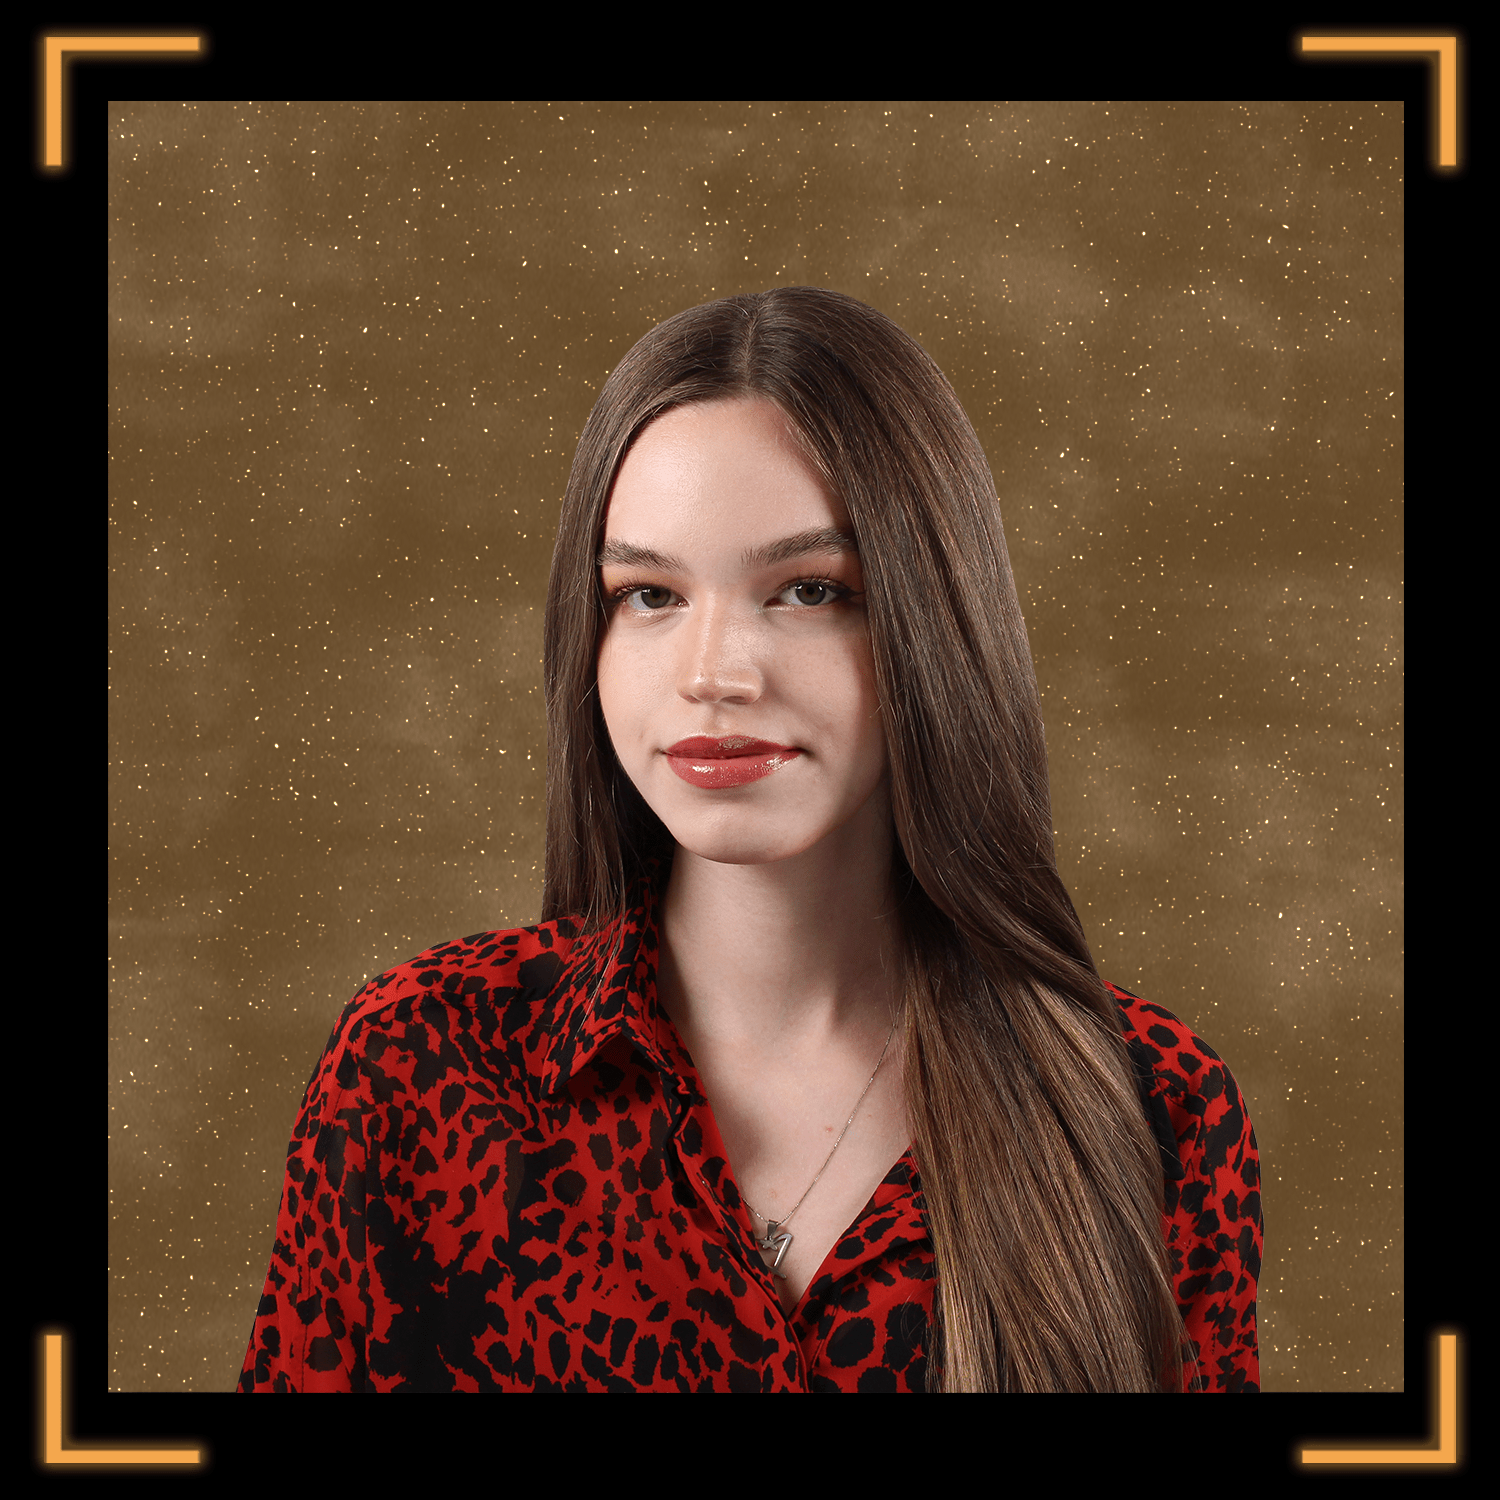
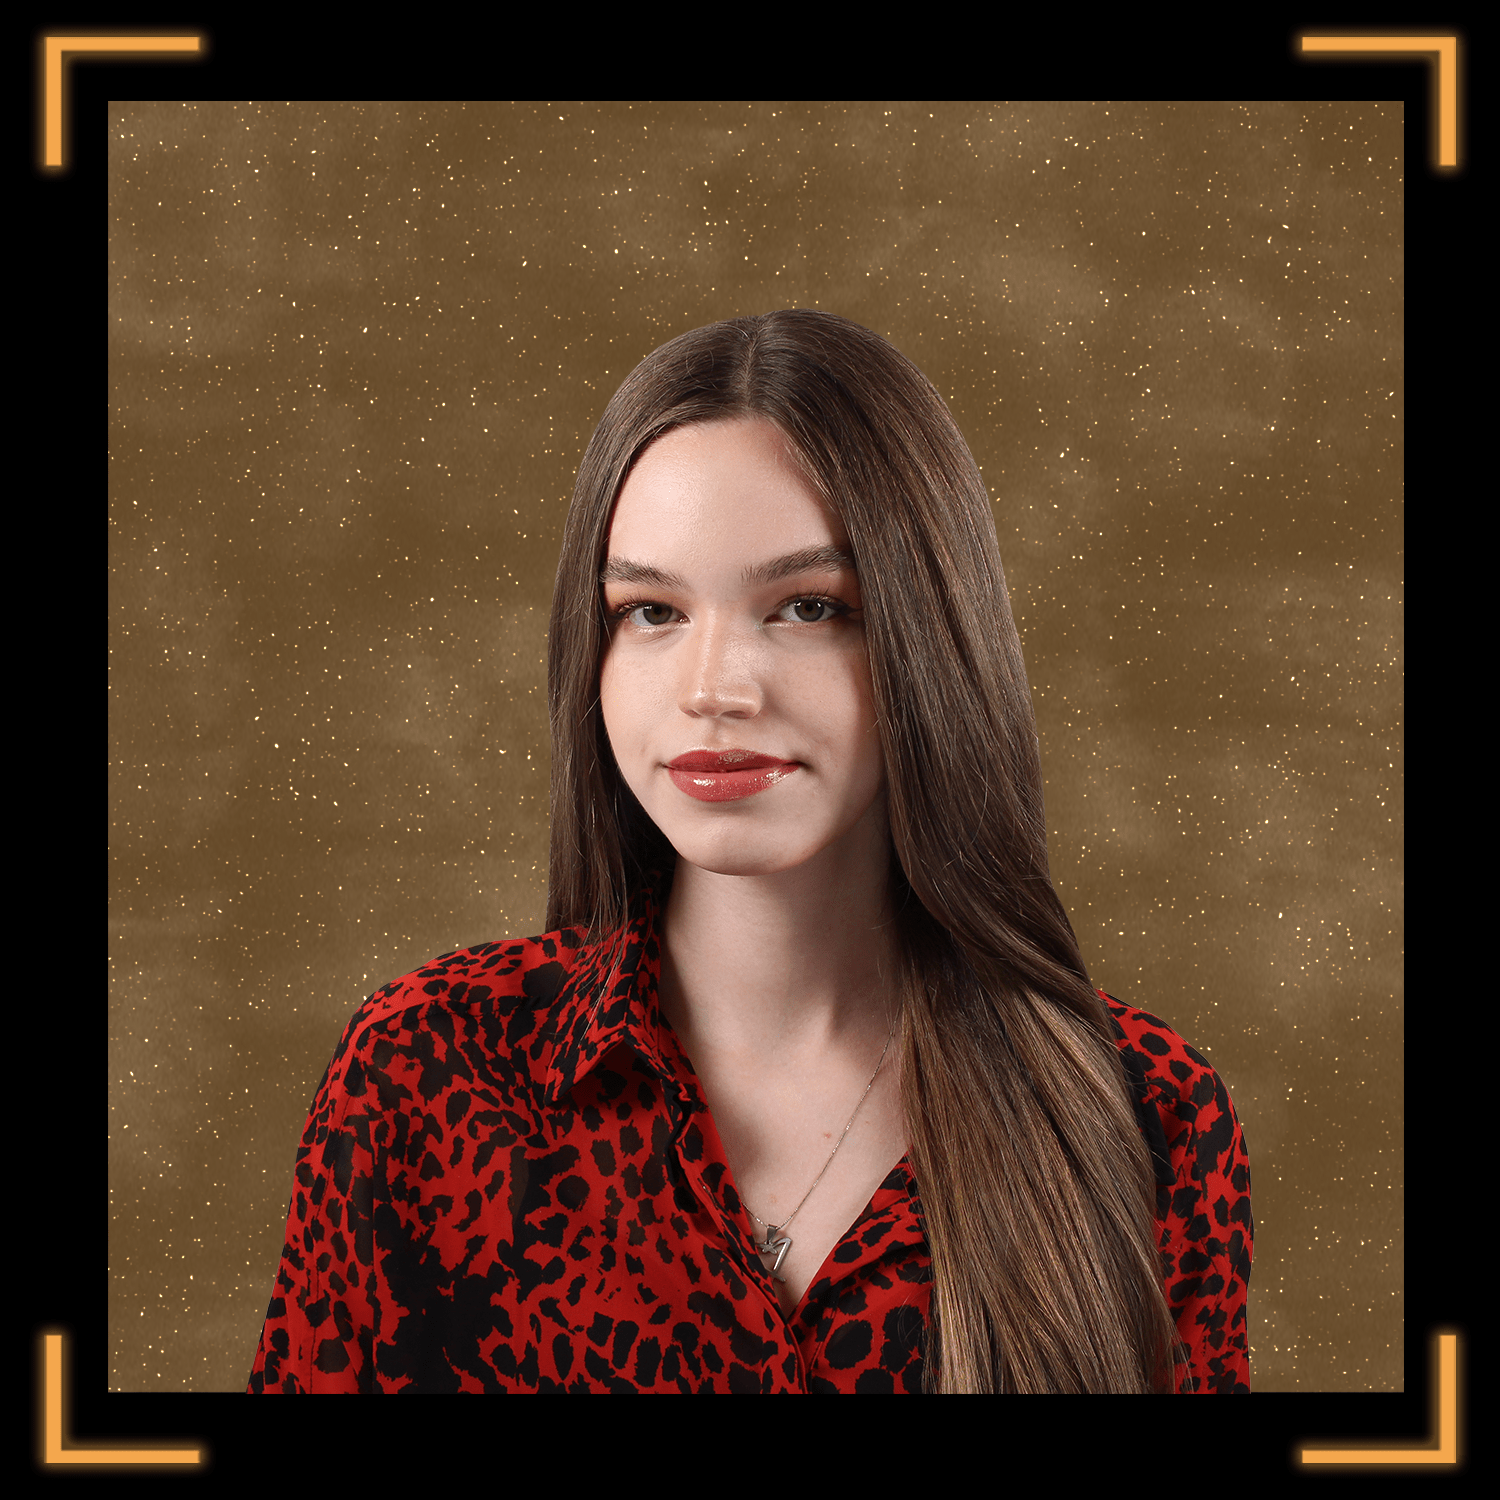
ughhh

Changed region(s): [[0.1533, 0.184, 0.8587, 0.9507]]

diff --git a/index.html b/index.html
@@ -60,7 +60,7 @@
             </div>
 
             <div class="hide" id="christine-b">
-                <img src="images/work/reynolds_herbertclawford.jpeg" alt="Project Name">
+                <img src="images/work/herbie3_square.jpeg" alt="Project Name">
                 <h2>Christine Reynolds</h2>
                 <p>Christine is a graphic designer, illustrator, and comics enthusiast. Her specializations include packaging, illustration, and editorial design. In all her work, Christine strives to incorporate fun illustrations and quirky characters for a totally unique outcome. She believes that personality is just as important to a product as good design, so she works to imbue a sense of playfulness and creativity in each and every project.</p>
             </div>
@@ -115,10 +115,7 @@
             <div class="hide" id="majo-b">
                 <img src="images/work/proj3small.png" alt="Project Name">
                 <h2>Majo Morales</h2>
-                <p>Arlie is a multidisciplinary artist, designer, & music lover. She is excited by projects that are hands-on, require problem-solving, and 
-                    loves print & layout design. Arlie also has a love for film photography and is often inspired by a sense of nostalgia. Her main goal through 
-                    design is to experiment, learn new processes and techniques to create each unique outcome. Arlie hopes to work in the entertainment industry and/or 
-                    collaborate with other creatives!</p>
+                <p>Majo Morales is an interdisciplinary designer and artist. She is continuously integrating multiple disciplines into her work but especially enjoys silkscreen, film photography, and experimental typography. Her body of work is diverse but tends to push the boundaries of design while still maintaining a clean and minimal aesthetic. Majo is also passionate about music and strives to make sound an integral part of her design practice. After graduation, Majo hopes to continue working within the music industry to apply her own design vision & skills. She hopes to eventually move to Europe to gain more exposure to the music & design scene while attending grad school. </p>
             </div>
 
             <div class="hide" id="marissa-b">
@@ -167,85 +164,85 @@
 
         <!-- RIGHT -->
         <div class="col-lg-5" id="right-screen">
-            <a href="https://2022.ufdesigners.com/abigail-altieri/" id="abi-a" class="grid-item" >
-                <img class="show img-fluid" src="images/pfps/wyatt_reg.png" alt="Abigail Altieri">
-                <img class="hide img-fluid" src="images/pfps/wyatt_hover_bg.png" alt="Abigail Altieri">
+            <a href="https://2022.ufdesigners.com/abigail/" id="abi-a" class="grid-item" >
+                <img class="show img-fluid" src="images/pfps/abi_reg.png" alt="Abigail Altieri">
+                <img class="hide img-fluid" src="images/pfps/abi_hover_all.png" alt="Abigail Altieri">
             </a>
             <a id="arlie-a" href="https://2022.ufdesigners.com/arlie/" class="grid-item">
-                <img class="show img-fluid" src="images/pfps/wyatt_reg.png" alt="Abigail Altieri">
-                <img class="hide img-fluid" src="images/pfps/wyatt_hover_bg.png" alt="Abigail Altieri">
+                <img class="show img-fluid" src="images/pfps/arlie_reg.png" alt="Arlie Birket">
+                <img class="hide img-fluid" src="images/pfps/arllie_hover_all.png" alt="Arlie Birket">
             </a>
-            <a id="brianne-a" href="https://2022.ufdesigners.com/brianne-de-los-santos/" class="grid-item">
-                <img class="show img-fluid" src="images/pfps/wyatt_reg.png" alt="Abigail Altieri">
-                <img class="hide img-fluid" src="images/pfps/wyatt_hover_bg.png" alt="Abigail Altieri">
+            <a id="brianne-a" href="https://2022.ufdesigners.com/brianne/" class="grid-item">
+                <img class="show img-fluid" src="images/pfps/brianne_reg.png" alt="Brianne' De Los Santos">
+                <img class="hide img-fluid" src="images/pfps/brianne_hover_all.png" alt="Brianne' De Los Santos">
             </a>
-            <a id="christine-a" href="#" class="grid-item">
-                <img class="show img-fluid" src="images/pfps/wyatt_reg.png" alt="Abigail Altieri">
-                <img class="hide img-fluid" src="images/pfps/wyatt_hover_bg.png" alt="Abigail Altieri">
+            <a id="christine-a" href="https://2022.ufdesigners.com/christine/" class="grid-item">
+                <img class="show img-fluid" src="images/pfps/christine_reg.png" alt="Christine Reynolds">
+                <img class="hide img-fluid" src="images/pfps/christine_hover_all.png" alt="Christine Reynolds">
             </a>
-            <a id="delaney-a" href="#" class="grid-item">
-                <img class="show img-fluid" src="images/pfps/wyatt_reg.png" alt="Abigail Altieri">
-                <img class="hide img-fluid" src="images/pfps/wyatt_hover_bg.png" alt="Abigail Altieri">
+            <a id="delaney-a" href="https://2022.ufdesigners.com/delaney/" class="grid-item">
+                <img class="show img-fluid" src="images/pfps/delaney_reg.png" alt="Delaney Dietrick">
+                <img class="hide img-fluid" src="images/pfps/delaney_hover_all.png" alt="Delaney Dietrick">
             </a>
-            <a id="eva-a" href="#" class="grid-item">
-                <img class="show img-fluid" src="images/pfps/wyatt_reg.png" alt="Abigail Altieri">
-                <img class="hide img-fluid" src="images/pfps/wyatt_hover_bg.png" alt="Abigail Altieri">
+            <a id="eva-a" href="https://2022.ufdesigners.com/eva/" class="grid-item">
+                <img class="show img-fluid" src="images/pfps/eva_reg.png" alt="Eva Robinson">
+                <img class="hide img-fluid" src="images/pfps/eva_hover_all.png" alt="Eva Robinson">
             </a>
-            <a id="gianna-a" href="#" class="grid-item">
-                <img class="show img-fluid" src="images/pfps/wyatt_reg.png" alt="Abigail Altieri">
-                <img class="hide img-fluid" src="images/pfps/wyatt_hover_bg.png" alt="Abigail Altieri">
+            <a id="gianna-a" href="https://2022.ufdesigners.com/gianna/" class="grid-item">
+                <img class="show img-fluid" src="images/pfps/gianna_reg.png" alt="Gianna Ramos">
+                <img class="hide img-fluid" src="images/pfps/gianna_hover_all.png" alt="Gianna Ramos">
             </a>
-            <a id="gina-a" href="#" class="grid-item">
-                <img class="show img-fluid" src="images/pfps/wyatt_reg.png" alt="Abigail Altieri">
-                <img class="hide img-fluid" src="images/pfps/wyatt_hover_bg.png" alt="Abigail Altieri">
+            <a id="gina-a" href="https://2022.ufdesigners.com/gina/" class="grid-item">
+                <img class="show img-fluid" src="images/pfps/gina_reg.png" alt="Gina Marchini">
+                <img class="hide img-fluid" src="images/pfps/gina_hover_all.png" alt="Gina Marchini">
             </a>
-            <a id="jules-a" href="#" class="grid-item">
-                <img class="show img-fluid" src="images/pfps/wyatt_reg.png" alt="Abigail Altieri">
-                <img class="hide img-fluid" src="images/pfps/wyatt_hover_bg.png" alt="Abigail Altieri">
+            <a id="jules-a" href="https://2022.ufdesigners.com/jules/" class="grid-item">
+                <img class="show img-fluid" src="images/pfps/jules_reg.png" alt="Jules Lavoy">
+                <img class="hide img-fluid" src="images/pfps/jules_hover_all.png" alt="Jules Lavoy">
             </a>
             <a id="kevin-a" href="https://2022.ufdesigners.com/kevin/" class="grid-item">
-                <img class="show img-fluid" src="images/pfps/wyatt_reg.png" alt="Abigail Altieri">
-                <img class="hide img-fluid" src="images/pfps/wyatt_hover_bg.png" alt="Abigail Altieri">
+                <img class="show img-fluid" src="images/pfps/kevin_reg.png" alt="Kevin Ward">
+                <img class="hide img-fluid" src="images/pfps/kevin_hover_all.png" alt="Kevin Ward">
             </a>
-            <a id="kt-a" href="#" class="grid-item">
-                <img class="show img-fluid" src="images/pfps/wyatt_reg.png" alt="Abigail Altieri">
-                <img class="hide img-fluid" src="images/pfps/wyatt_hover_bg.png" alt="Abigail Altieri">
+            <a id="kt-a" href="https://2022.ufdesigners.com/kt/" class="grid-item">
+                <img class="show img-fluid" src="images/pfps/kt_reg.png" alt="KT Hartman">
+                <img class="hide img-fluid" src="images/pfps/kt_hover_all.png" alt="KT Hartman">
             </a>
-            <a id="maddie-a" href="#" class="grid-item">
-                <img class="show img-fluid" src="images/pfps/maddie_reg.png" alt="">
-                <img class="hide img-fluid" src="images/pfps/maddie_hover_all.png" alt="">
+            <a id="maddie-a" href="https://2022.ufdesigners.com/maddie/" class="grid-item">
+                <img class="show img-fluid" src="images/pfps/maddie_reg.png" alt="Maddie Hersch">
+                <img class="hide img-fluid" src="images/pfps/maddie_hover_all.png" alt="Maddie Hersch">
             </a>
-            <a id="majo-a" href="#" class="grid-item">
-                <img class="show img-fluid" src="images/pfps/majo_reg.png" alt="">
-                <img class="hide img-fluid" src="images/pfps/majo_hover_all.png" alt="">
+            <a id="majo-a" href="https://2022.ufdesigners.com/majo/" class="grid-item">
+                <img class="show img-fluid" src="images/pfps/majo_reg.png" alt="Majo Morales">
+                <img class="hide img-fluid" src="images/pfps/majo_hover_all.png" alt="Majo Morales">
             </a>
             <a id="marissa-a" href="https://2022.ufdesigners.com/marissa/" class="grid-item">
-                <img class="show img-fluid" src="images/pfps/marissa_reg.png" alt="">
-                <img class="hide img-fluid" src="images/pfps/marissa_hover_all.png" alt="">
+                <img class="show img-fluid" src="images/pfps/marissa_reg.png" alt="Marissa Balbuena">
+                <img class="hide img-fluid" src="images/pfps/marissa_hover_all.png" alt="Marissa Balbuena">
             </a>
-            <a id="natalie-a" href="#" class="grid-item">
-                <img class="show img-fluid" src="images/pfps/nat_reg.png" alt="">
-                <img class="hide img-fluid" src="images/pfps/nat_hover_all.png" alt="">
+            <a id="natalie-a" href="https://2022.ufdesigners.com/natalie/" class="grid-item">
+                <img class="show img-fluid" src="images/pfps/nat_reg.png" alt="Natalie Erb">
+                <img class="hide img-fluid" src="images/pfps/nat_hover_all.png" alt="Natalie Erb">
             </a>
-            <a id="olivia-a" href="#" class="grid-item">
-                <img class="show img-fluid" src="images/pfps/olivia_reg.png" alt="">
-                <img class="hide img-fluid" src="images/pfps/olivia_hover_all.png" alt="">
+            <a id="olivia-a" href="https://2022.ufdesigners.com/olivia/" class="grid-item">
+                <img class="show img-fluid" src="images/pfps/olivia_reg.png" alt="Olivia Monaco">
+                <img class="hide img-fluid" src="images/pfps/olivia_hover_all.png" alt="Olivia Monaco">
             </a>
-            <a id="peyton-a" href="#" class="grid-item">
-                <img class="show img-fluid" src="images/pfps/peyton_reg.png" alt="">
-                <img class="hide img-fluid" src="images/pfps/peyton_hover_bg.png" alt="">
+            <a id="peyton-a" href="https://2022.ufdesigners.com/peyton/" class="grid-item">
+                <img class="show img-fluid" src="images/pfps/peyton_reg.png" alt="Peyton Shelton">
+                <img class="hide img-fluid" src="images/pfps/peyton_hover_all.png" alt="Peyton Shelton">
             </a>
-            <a id="sasa-a" href="#" class="grid-item">
-                <img class="show img-fluid" src="images/pfps/sasa_reg.png" alt="">
-                <img class="hide img-fluid" src="images/pfps/sasa_hover_bg.png" alt="">
+            <a id="sasa-a" href="https://2022.ufdesigners.com/sasa/" class="grid-item">
+                <img class="show img-fluid" src="images/pfps/sasa_reg.png" alt="Saša Crkvenjaš">
+                <img class="hide img-fluid" src="images/pfps/sasa_hover_all.png" alt="Saša Crkvenjaš">
             </a>
-            <a id="valerie-a" href="#" class="grid-item">
+            <a id="valerie-a" href="https://2022.ufdesigners.com/valerie/" class="grid-item">
                 <img class="show img-fluid" src="images/pfps/val_reg.png" alt="Valerie Muzondi">
-                <img class="hide img-fluid" src="images/pfps/val_hover_bg.png" alt="Valerie Muzondi">
+                <img class="hide img-fluid" src="images/pfps/val_hover_all.png" alt="Valerie Muzondi">
             </a>
-            <a id="wyatt-a" href="#" class="grid-item">
-                <img class="show img-fluid" src="images/pfps/wyatt_reg.png" alt="">
-                <img class="hide img-fluid" src="images/pfps/wyatt_hover_bg.png" alt="">
+            <a id="wyatt-a" href="https://2022.ufdesigners.com/wyatt/" class="grid-item">
+                <img class="show img-fluid" src="images/pfps/wyatt_reg.png" alt="Wyatt Lucovsky">
+                <img class="hide img-fluid" src="images/pfps/wyatt_hover_all.png" alt="Wyatt Lucovsky">
             </a>
 
     </div>

diff --git a/css/style.css b/css/style.css
@@ -117,10 +117,12 @@ p {
 
 .hide, #abi-a:hover .show {
     display: none;
+    transition: all 5s;
 }
 
 .show, #abi-a:hover .hide {
     display: block;
+    transition: all 5s;
 }
 
 .hide, #arlie-a:hover .show {
